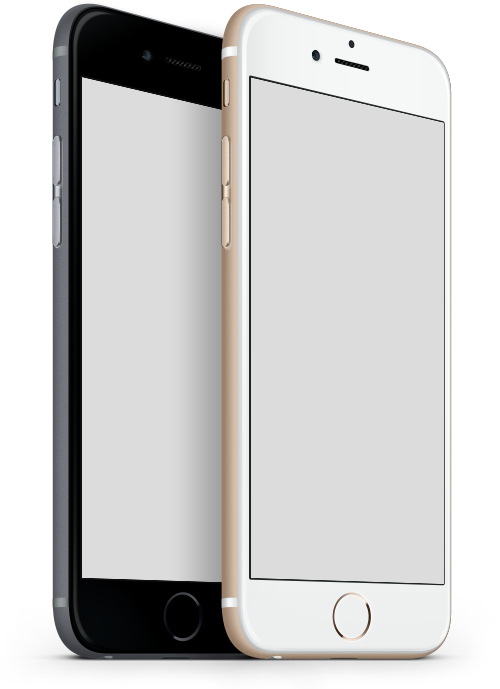
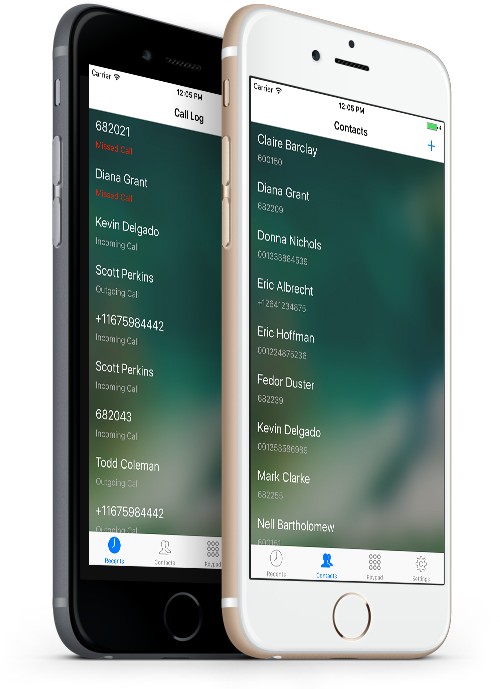
add images of the app

diff --git a/phone_app/index.html b/phone_app/index.html
@@ -140,13 +140,11 @@
                                     <!-- CONTENT -->
                                     <ul class="allinone_carousel_list">
 
-                                        <li data-title="Screen Name #1" data-bottom-thumb="images/sweet/thumbs/1.jpg"><img src="images/sweet/1.jpg" alt="" /></li>
-                                        <li data-title="Screen Name #2" data-bottom-thumb="images/sweet/thumbs/2.jpg"><img src="images/sweet/2.jpg" alt="" /></li>
-                                        <li data-title="Screen Name #3" data-bottom-thumb="images/sweet/thumbs/3.jpg"><img src="images/sweet/3.jpg" alt="" /></li>
-                                        <li data-title="Screen Name #4" data-bottom-thumb="images/sweet/thumbs/4.jpg"><img src="images/sweet/4.jpg" alt="" /></li>
-                                        <li data-title="Screen Name #5" data-bottom-thumb="images/sweet/thumbs/5.jpg"><img src="images/sweet/5.jpg" alt="" /></li>
-                                        <li data-title="Screen Name #6" data-bottom-thumb="images/sweet/thumbs/6.jpg"><img src="images/sweet/6.jpg" alt="" /></li>
-                                        <li data-title="Screen Name #7" data-bottom-thumb="images/sweet/thumbs/7.jpg"><img src="images/sweet/7.jpg" alt="" /></li>
+                                        <li data-title="Keypad" data-bottom-thumb="images/sweet/thumbs/1.jpg"><img src="images/sweet/1.jpg" alt="" /></li>
+                                        <li data-title="Contact" data-bottom-thumb="images/sweet/thumbs/2.jpg"><img src="images/sweet/2.jpg" alt="" /></li>
+                                        <li data-title="Call log" data-bottom-thumb="images/sweet/thumbs/3.jpg"><img src="images/sweet/3.jpg" alt="" /></li>
+                                        <li data-title="Settings" data-bottom-thumb="images/sweet/thumbs/4.jpg"><img src="images/sweet/4.jpg" alt="" /></li>
+                                        <li data-title="Notification of missed call" data-bottom-thumb="images/sweet/thumbs/5.jpg"><img src="images/sweet/5.jpg" alt="" /></li>
 
                                     </ul>    
 
@@ -292,6 +290,5 @@
         <script src="js/jssocials.min.js"></script>
         <script src="js/script.js"></script>
 
-        <a class="version" href="../android"><i class="fa fa-android"></i></a>
     </body>
 </html>

diff --git a/phone_app/js/script.js b/phone_app/js/script.js
@@ -73,8 +73,8 @@ jQuery(document).ready(function ($) {
     $('input, textarea').placeholder();
 
     $("#shareIconsCountInside").jsSocials({
-        url: "http://google.com",
-        text: "Google Search Page",
+        url: "https://tnmendes.github.io/phone_app",
+        text: "Voless VOIP Callkit App",
         showLabel: false,
         showCount: "inside",
         shares: ["twitter", "facebook", "googleplus", "pinterest"]
